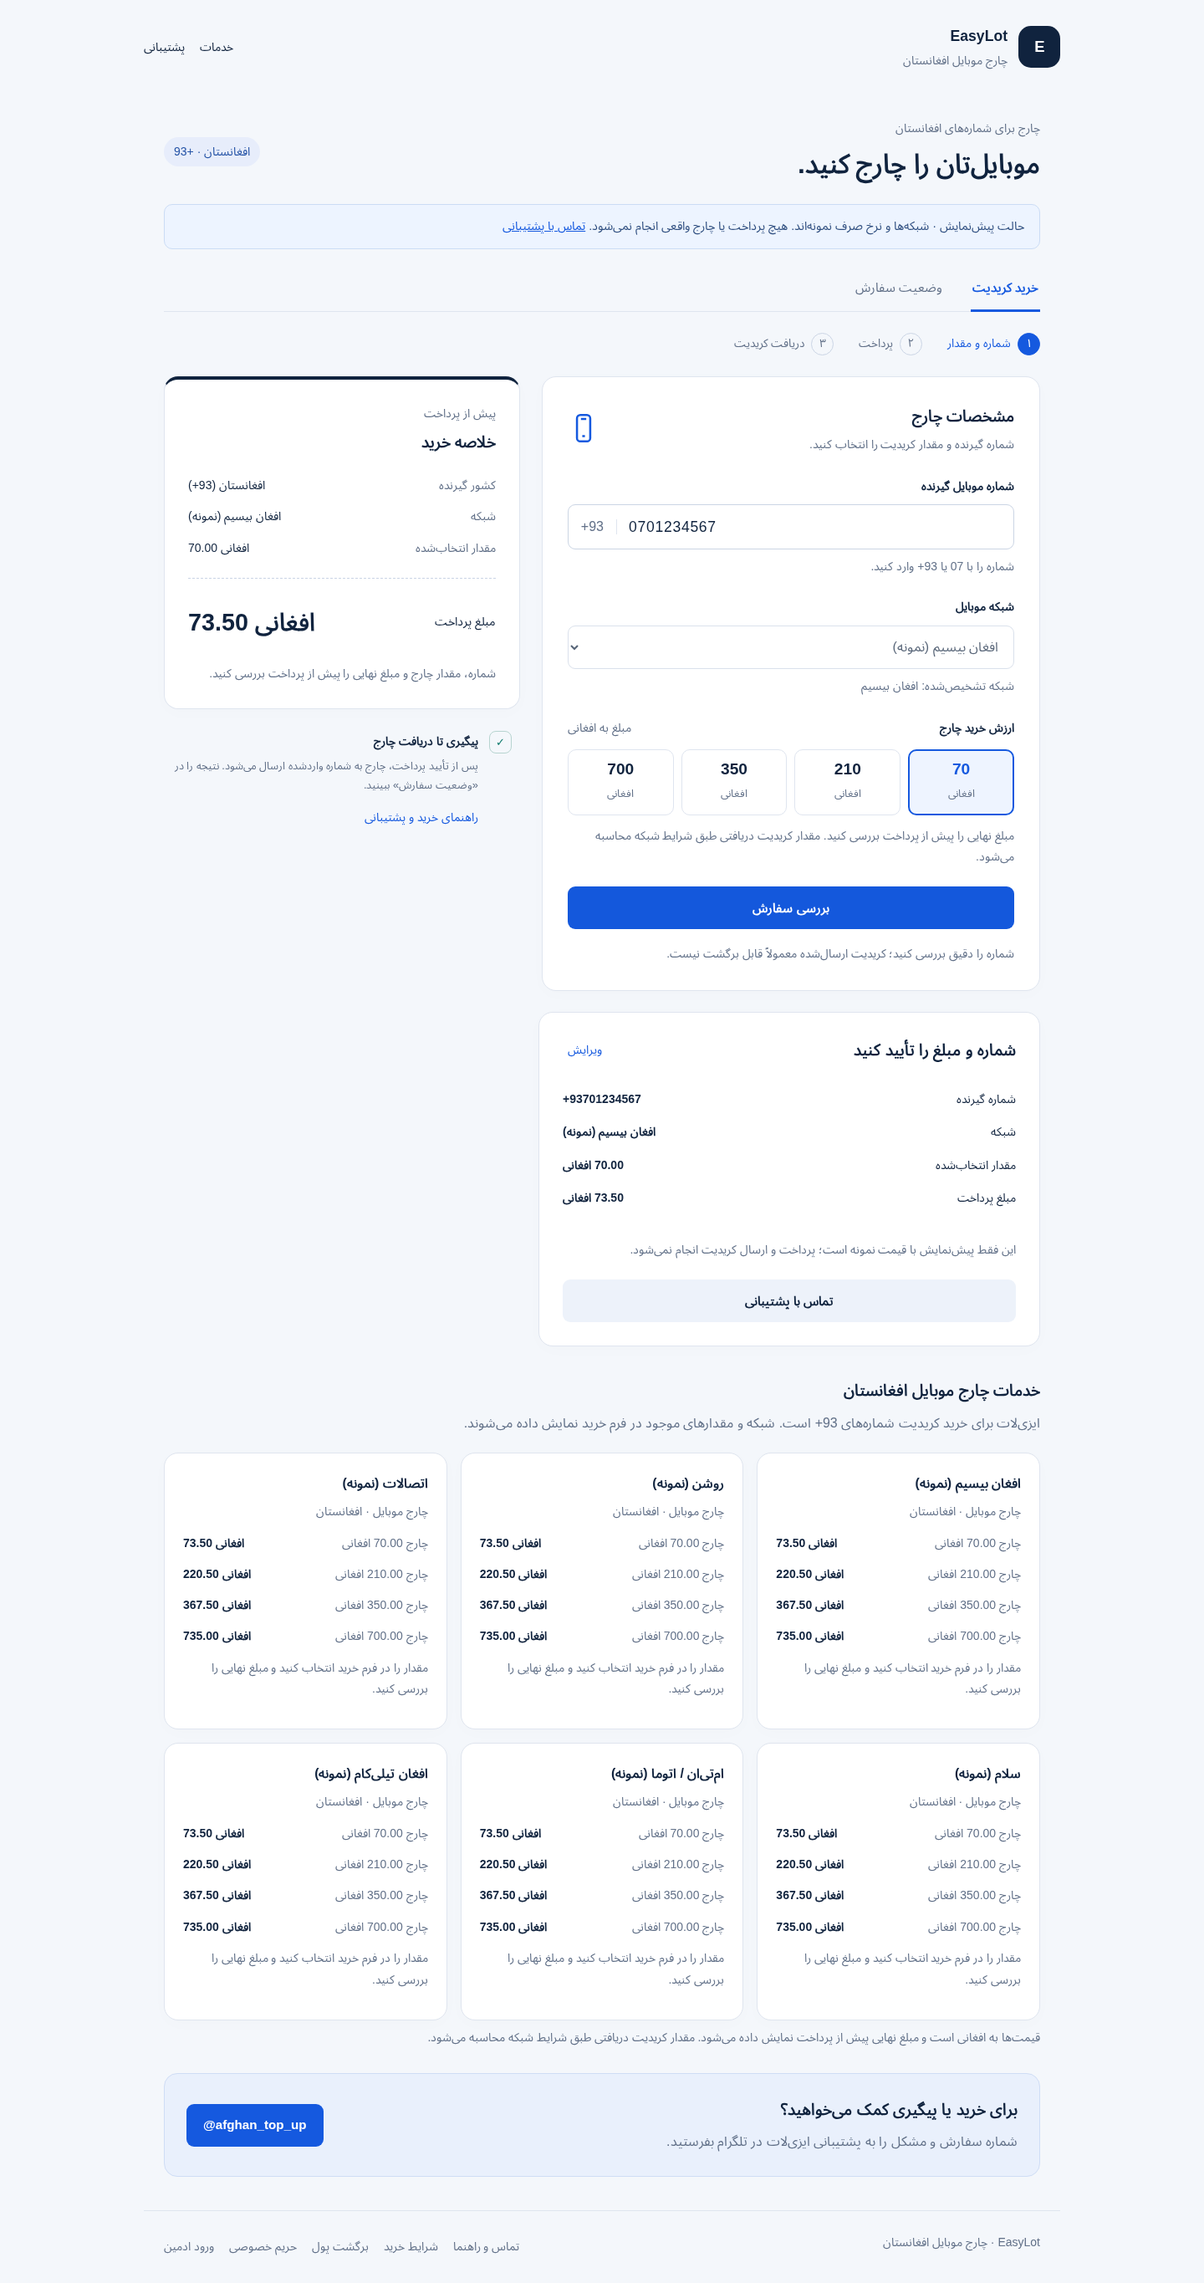
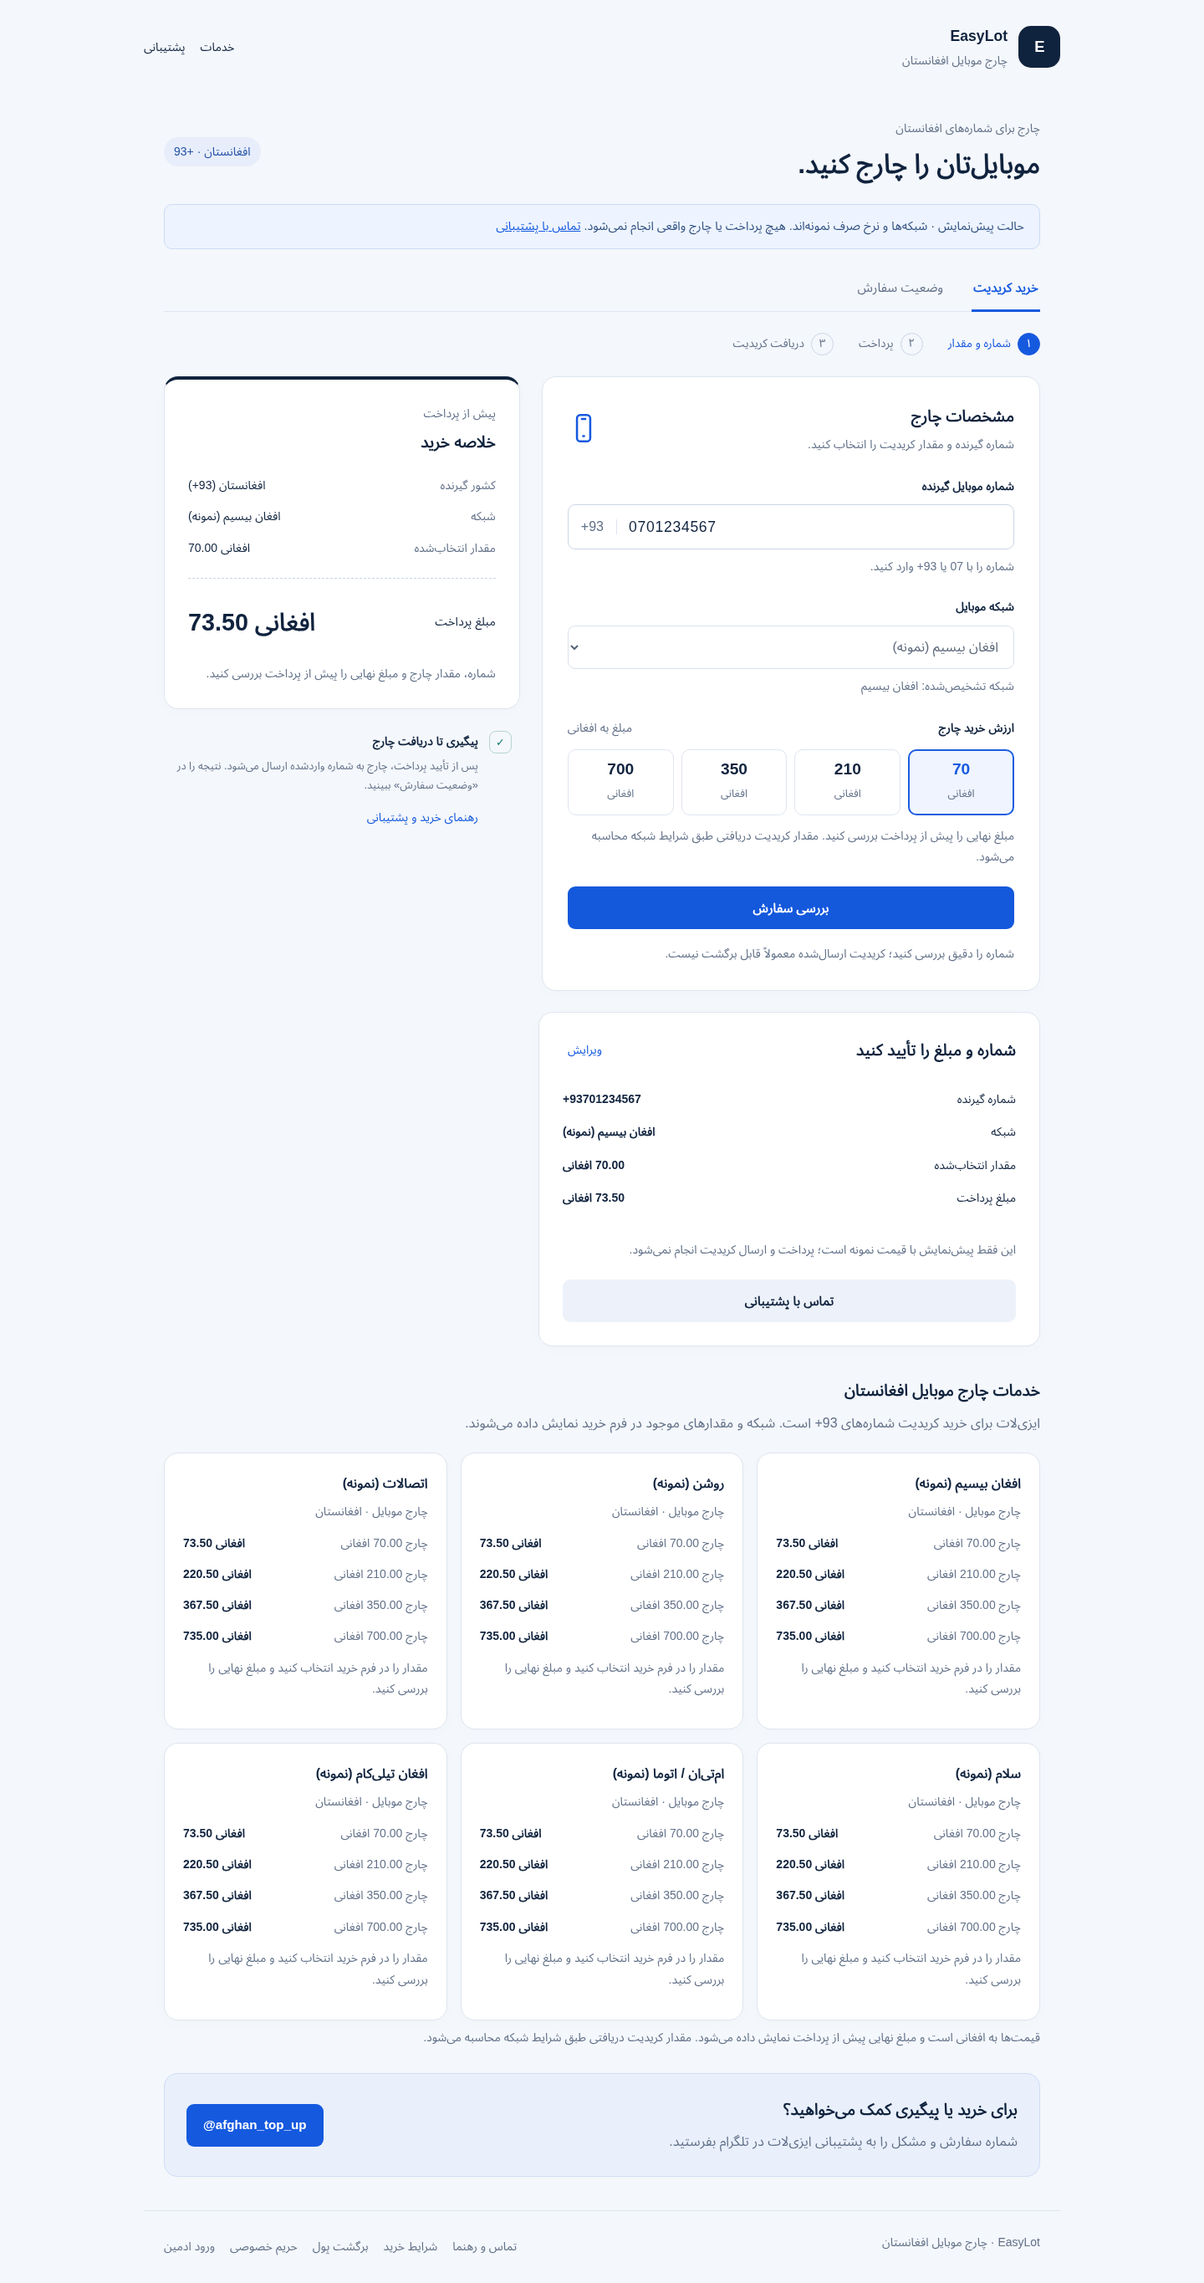
Simplify the case study and add a central project portfolio

diff --git a/index.html b/index.html
@@ -21,7 +21,7 @@
     <main id="main">
       <section class="hero">
         <p class="eyebrow">FINTECH / AFGHANISTAN / DARI INTERFACE</p>
-        <h1>A small purchase.<br />A careful chain of checks.</h1>
+        <h1>Mobile airtime for<br />Afghan phone numbers.</h1>
         <p class="lead">
           A mobile airtime storefront connecting cryptocurrency payments to
           Afghan phone networks, with accepted prices saved per order and
@@ -97,8 +97,8 @@
         </div>
       </section>
       <section>
-        <p class="eyebrow">DECISIONS WORTH REVIEWING</p>
-        <h2>The difficult part is what happens between states.</h2>
+        <p class="eyebrow">IMPLEMENTATION NOTES</p>
+        <h2>Handling payment and delivery failures</h2>
         <div class="decisions">
           <details open>
             <summary>Preserve the price the customer accepted</summary>

diff --git a/README.md b/README.md
@@ -1,97 +1,41 @@
-# EasyLot — Afghanistan Mobile Top-Ups
+# EasyLot
 
-**A Dari web application connecting cryptocurrency payments to prepaid mobile airtime delivery in Afghanistan.**
+A Dari storefront for buying mobile airtime in Afghanistan. The customer enters a number and an amount in AFN, checks the price, and pays through Heleket. The backend verifies the payment before requesting airtime from Reloadly.
 
-**Project owner:** [Rizwanullah Muahed](https://github.com/rizwanullahmuahed2-ui)  
-**Portfolio:** customer experience, API integration, payment verification, order processing and administration.
+[Customer interface](https://afghan-topup.rizwanullahmuahed2.chatgpt.site/) · [معرفی به دری](README.fa.md) · [Technical overview](docs/PROJECT_OVERVIEW.md) · [Browser case study](index.html)
 
-[Live website](https://afghan-topup.rizwanullahmuahed2.chatgpt.site/) · [راهنمای دری](README.fa.md) · [Project overview](docs/PROJECT_OVERVIEW.md) · [Browser case study](index.html)
+[About me and my other projects](PORTFOLIO.md)
 
-This public repository presents the project for employers and technical reviewers. The complete implementation is maintained separately for private review; an employer can request repository access from the project owner.
+![Local quote preview](assets/local-review.png)
 
-## The problem
+The screenshot uses a sample number and price in the disconnected local preview. It does not show a real payment or delivery.
 
-Customers need a simple way to buy airtime for Afghan phone numbers while paying with cryptocurrency. The storefront needs to speak Dari, display amounts in Afghanis, validate the mobile network, and coordinate payment confirmation with a separate prefunded airtime provider.
+## Work worth looking at
 
-## The application
+- Afghan phone-number validation and a mobile-friendly, right-to-left interface.
+- Admin-managed exchange rates and fees, with the accepted price saved on each order.
+- Signed payment callbacks and an independent lookup of the invoice, currency and amount.
+- A database claim before fulfillment, so concurrent requests cannot send the same stored order twice.
+- A review state for provider timeouts: an unclear response is investigated before resending.
+- Private order tracking, admin sessions and versioned database migrations.
 
-EasyLot supports cryptocurrency payments and mobile airtime delivery. Customers enter a number, choose an AFN amount, review the total, and continue to payment. The server independently verifies a settled payment before requesting airtime.
+The source uses JavaScript, Cloudflare Workers/D1 and Drizzle. Its Node.js preview uses SQLite. The [technical overview](docs/PROJECT_OVERVIEW.md) explains the order states and integration decisions.
 
-An administrator manages the daily AFN-per-USD rate and service markup. The customer sees the selected amount and final total, while provider requests and payment invoices remain denominated in USD. Existing orders retain their accepted pricing when settings change.
+## Review and current scope
 
-## Customer interface
+This public repository contains the case study and screenshots. The implementation is in a private repository; [contact me](mailto:rizwanullahmuahed2@gmail.com) for source access.
 
-![EasyLot local quote review in Dari](assets/local-review.png)
+The 21 October 2026 source check passed 35 automated tests with mocked providers and a Worker build. No payment or airtime was sent by those checks. Refunds are handled manually. A durable delivery queue, cross-order balance reservations and a production VPS adapter are still outstanding.
 
-*Local disconnected preview with a sample number and sample pricing. The reviewer can inspect an amount and quote without an invoice, payment or airtime delivery. The earlier hosted-site entry capture remains in `assets/customer-interface.png`.*
-
-## Features implemented
-
-| Area | Capability |
-| --- | --- |
-| Customer experience | Responsive, right-to-left Dari interface and AFN amounts |
-| Phone validation | Afghan-number normalization, prefix-based network detection and server validation |
-| Service catalog | Supported mobile networks, denominations and available-balance checks |
-| Pricing | Admin-managed exchange rate and markup; order pricing snapshots |
-| Payments | Cryptocurrency checkout and server-side payment verification |
-| Order handling | Persistent states, private tracking access and atomic fulfillment claims |
-| Administration | Password login, protected sessions, pricing controls and manual top-ups |
-| Customer information | Support, purchase terms, refunds and privacy pages |
-
-## High-level architecture
-
-```mermaid
-flowchart TD
-    Number[Enter Afghan mobile number] --> Amount[Choose amount in AFN]
-    Amount --> Payment[Pay with cryptocurrency]
-    Payment --> Verify[Confirm payment]
-    Verify --> Airtime[Send mobile airtime]
-```
-
-## Engineering decisions
-
-- **Verify before delivery:** a payment-page return is not enough; the server checks the payment provider independently.
-- **Preserve accepted prices:** orders save a pricing snapshot so daily rate changes do not rewrite an existing purchase.
-- **Control concurrent sends:** a persisted atomic claim prevents simultaneous requests from dispatching the same stored top-up twice.
-- **Review ambiguous results:** a provider timeout does not prove delivery failed; unclear outcomes require reconciliation rather than blind resending.
-- **Keep operations distinct:** customer purchases and administrator manual top-ups have separate authorization and records.
-
-## Technology and validation
-
-| Component | Technology |
-| --- | --- |
-| Interface | HTML, CSS, JavaScript modules |
-| Backend | Worker-compatible JavaScript, Fetch API and Web Crypto |
-| Hosted database | Cloudflare D1 |
-| Schema management | Drizzle and versioned SQL migrations |
-| Development / tests | Node.js 24 and isolated SQLite databases |
-| Integrations | Cryptocurrency payments and mobile airtime services |
-
-On **21 October 2026**, the refreshed source passed **35 mocked automated tests** covering payment matching, callbacks, pricing, authentication, network validation, concurrent dispatch and ambiguous results. The Worker build and bundled-preview smoke check also completed successfully. Browser checks covered number detection, amount selection, quote review and the hidden payment action in preview. These checks did not spend provider funds or send real airtime.
-
-The implementation is hosted and integrates the provider APIs. Production VPS migration and additional local integrations remain future work. Refunds are handled operationally; a durable delivery queue and cross-order wallet reservations are not included. These limits matter when assessing production scale.
-
-## Reviewing the project
-
-- Browse the [project overview](docs/PROJECT_OVERVIEW.md) for the workflow, design decisions and current scope.
-- Visit the [live customer interface](https://afghan-topup.rizwanullahmuahed2.chatgpt.site/) to inspect the public user experience. A payment is not necessary to review the interface.
-- Request private source access from the project owner for code, tests, migrations and installation instructions.
-
-Source access is granted individually for technical review. This repository does not grant a license to the private implementation.
-
-## Browse this case study locally
-
-The repository includes a responsive static case-study page with expandable engineering decisions. From this directory:
+To open the static case study locally:
 
 ```sh
 python -m http.server 8082
 ```
 
-Open `http://localhost:8082`. This serves documentation only and makes no payment requests. It does not deploy or change the hosted storefront.
+Visit http://localhost:8082. This page makes no payment requests.
 
-## More portfolio projects
+## Other projects
 
-These projects have their own public repositories, setup guides, tests and dashboards:
-
-- [Packet Trail — offline network capture analysis](https://github.com/rizwanullahmuahed2-ui/packet-trail): bounded PCAP parser, local dashboard, evidence-based traffic heuristics and CLI.
-- [Bike Demand Lab — reproducible Machine Learning](https://github.com/rizwanullahmuahed2-ui/bike-demand-lab): chronological UCI benchmark, leakage checks, measured metrics and an evidence dashboard.
+- [Packet Trail](https://github.com/rizwanullahmuahed2-ui/packet-trail): offline PCAP inspection with a dashboard and CLI.
+- [Bike Demand Lab](https://github.com/rizwanullahmuahed2-ui/bike-demand-lab): hourly prediction with chronological evaluation.

diff --git a/README.fa.md b/README.fa.md
@@ -10,7 +10,7 @@
 
 مشتری شمارهٔ موبایل افغانستان و مقدار چارج را وارد میکند، مبلغ نهایی را به افغانی میبیند و با ارز دیجیتال پرداخت میکند. پس از تأیید پرداخت در سرور، چارج موبایل ارسال میشود.
 
-ادمین نرخ روزانهٔ دالر و کارمزد را دستی تنظیم میکند. مبلغ و نرخ سفارش ثبتشده حفظ میشود؛ تغییر نرخ روزانه، سفارش قبلی را تغییر نمیدهد. چارج دستی ادمین جریان جداگانهای دارد و به پرداخت مشتری وابسته نیست.
+ادمین نرخ روزانهٔ دالر و فیس خدمات را دستی تنظیم میکند. مبلغ و نرخ سفارش ثبتشده حفظ میشود؛ تغییر نرخ روزانه، سفارش قبلی را تغییر نمیدهد. چارج دستی ادمین جریان جداگانهای دارد و به پرداخت مشتری وابسته نیست.
 
 ## تصویر رابط مشتری
 
@@ -32,12 +32,12 @@
 
 ## اعتبارسنجی
 
-در **۱۰ اکتوبر ۲۰۲۶**، نسخهٔ کد با **۳۳ تست خودکار شبیهسازیشده** و ساخت موفق Worker بررسی شد. تستها پول مصرف نکردند و به شمارهٔ واقعی چارج نفرستادند.
+در **۲۱ اکتوبر ۲۰۲۶**، نسخهٔ کد با **۳۵ تست خودکار شبیهسازیشده** و ساخت موفق Worker بررسی شد. تستها پول مصرف نکردند و به شمارهٔ واقعی چارج نفرستادند.
 
 این نسخه روی معماری Cloudflare Workers و D1 ساخته شده است. انتقال به VPS، اتصال خدمات محلی بیشتر، صف بادوام ارسال و رزرو موجودی بین سفارشهای متفاوت هنوز تکمیل نشدهاند؛ بازپرداخت بهصورت دستی رسیدگی میشود.
 
 ## برای کارفرما
 
-این ریپو توضیح، معماری و تصویر پروژه را ارائه میکند. کد کامل، تستها و راهنمای نصب برای بررسی فنی در ریپوی خصوصی نگهداری میشوند؛ دسترسی آن را میتوان از صاحب پروژه درخواست کرد.
+این ریپو توضیح، معماری و تصویر پروژه را ارائه میکند. کد کامل، تستها و رهنمای نصب برای بررسی فنی در ریپوی خصوصی نگهداری میشوند؛ دسترسی آن را میتوان از صاحب پروژه درخواست کرد.
 
 معرفی کامل انگلیسی در [README](README.md) و جزئیات تصمیمهای فنی در [Project Overview](docs/PROJECT_OVERVIEW.md) آمده است.

diff --git a/PORTFOLIO.md b/PORTFOLIO.md
@@ -1,0 +1,25 @@
+# Rizwanullah Mowahid
+
+Computer Science graduate from Kabul Polytechnic University, based in Afghanistan. My projects cover Python APIs, payment workflows, network traffic analysis and machine learning. I am looking for junior software development or application support work and relevant internships.
+
+[Email](mailto:rizwanullahmuahed2@gmail.com) · [LinkedIn](https://www.linkedin.com/in/rizwan-ullah-muahed-450157325) · [GitHub](https://github.com/rizwanullahmuahed2-ui)
+
+## Projects to start with
+
+| Project | What to inspect | Try it |
+| --- | --- | --- |
+| [EasyLot](README.md) | Payment verification, order states, pricing snapshots and concurrent delivery requests | [Customer interface](https://afghan-topup.rizwanullahmuahed2.chatgpt.site/); private source available for review |
+| [Packet Trail](https://github.com/rizwanullahmuahed2-ui/packet-trail) | PCAP parsing, bounded input handling, a Python API and browser dashboard | Bundled captures and CLI; no external account needed |
+| [Bike Demand Lab](https://github.com/rizwanullahmuahed2-ui/bike-demand-lab) | Chronological evaluation, leakage checks, baseline comparisons and saved predictions | Dashboard opens the committed benchmark without retraining |
+| [Persian Humanizer](https://github.com/rizwanullahmuahed2-ui/Persian_Humanizer_Ai) | Retrieval-guided rewriting, FastAPI endpoints and streamed text | Local Ollama required for generation; API tests use controlled responses |
+| [RAG Security Lab](https://github.com/rizwanullahmuahed2-ui/RAG-Security-Lab) | Retrieval poisoning experiments, saved model responses and an evidence checker | Verify the published research offline without API calls |
+
+These are personal and academic projects. Their READMEs distinguish local demos, mocked tests and saved experiments from live services. The research manuscripts are unpublished and keep their coauthor credits.
+
+## Background
+
+- B.Sc. in Network Engineering, Faculty of Computer Science, Kabul Polytechnic University.
+- Research and Development internship, Ministry of Communications and Information Technology, April–October 2026.
+- Community Mobilizer, ORCD, Nuristan, November 2022–March 2023.
+
+I use Python, JavaScript, HTML/CSS, SQL/PostgreSQL, Linux and Git. My development tools include Codex, GitHub Copilot and Claude.

diff --git a/UPLOAD_GUIDE.fa.md b/UPLOAD_GUIDE.fa.md
@@ -8,8 +8,8 @@
 
 1. بستهٔ `EasyLot_Public_Showcase.zip` را استخراج کن.
 2. در ریپو، `Add file → Upload files` را باز کن.
-3. محتویات پوشهٔ `easylot-public` را در ریشهٔ ریپو آپلود کن؛ فایلهای `README.md` و `README.fa.md` باید مستقیم در ریشه قرار بگیرند.
-4. پوشههای `assets` و `docs` را هم اضافه کن و Commit بزن.
+3. محتویات فولدرٔ `easylot-public` را در ریشهٔ ریپو آپلود کن؛ فایلهای `README.md` و `README.fa.md` باید مستقیم در ریشه قرار بگیرند.
+4. فولدرهای `assets` و `docs` را هم اضافه کن و Commit بزن.
 
 این بسته مخصوص نمونهکار عمومی است. بستهٔ `EasyLot_Private_Source.zip` و بستهٔ کامل قبلی را فقط در ریپوی Private قرار بده.
 
